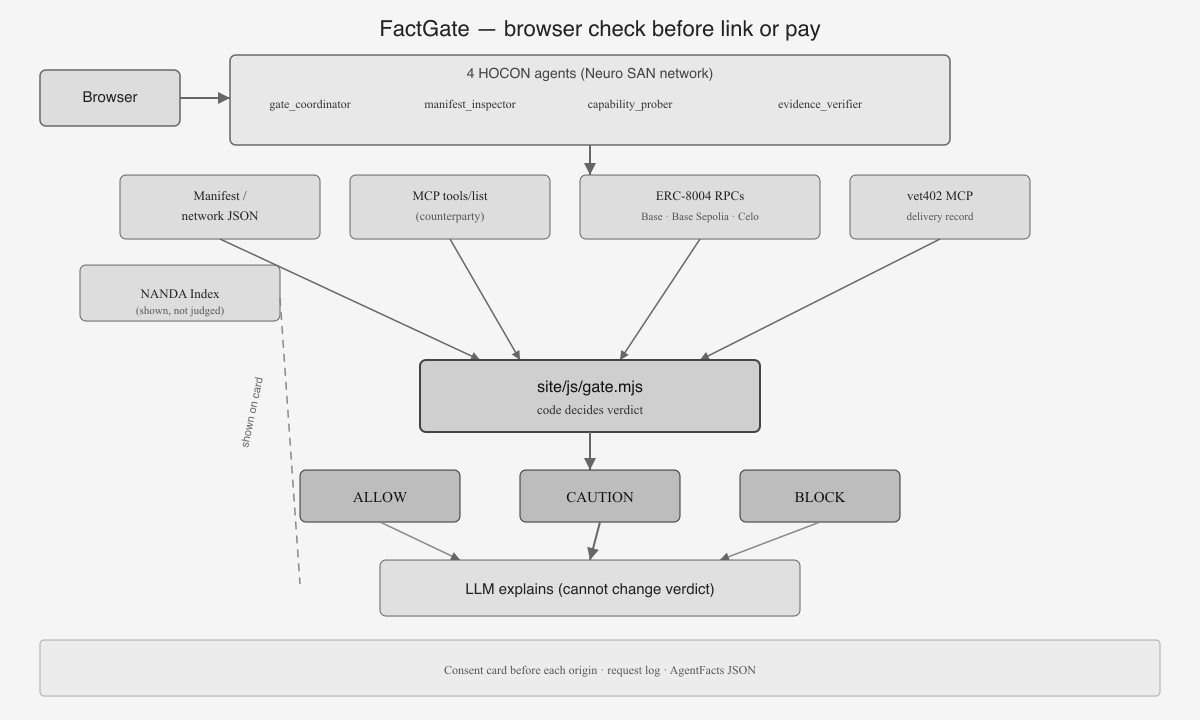
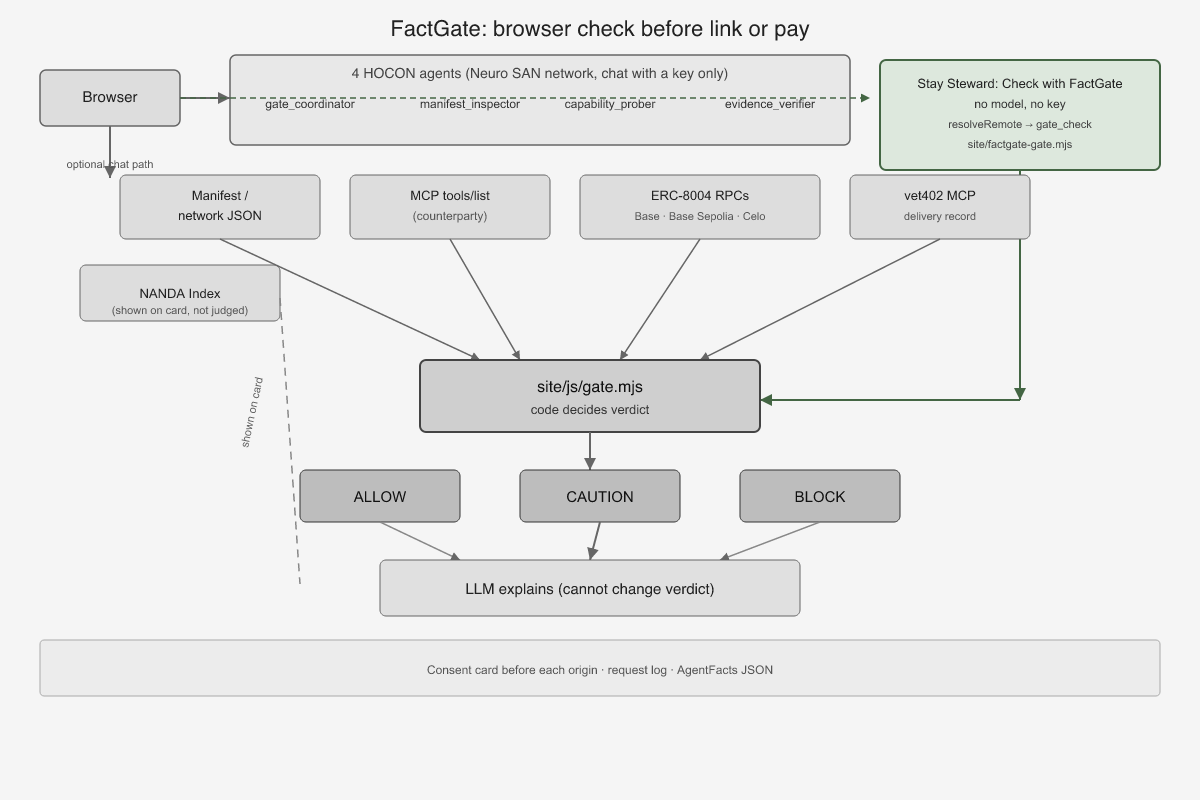
Align submission copy with probe evidence and judge demo limits.
Ecosystem counts, vet402 card dates, README Limits, architecture diagram keyless path, and submission-round6 assertions for Last delivered wording.

diff --git a/README.md b/README.md
@@ -1,4 +1,4 @@
-# FactGate — checks a stranger before your agent pays it
+# FactGate: checks a stranger before your agent pays it
 
 My agent was about to book the nicer hotel. I had built that hotel to fail. FactGate caught it.
 
@@ -22,26 +22,26 @@ Code decides **ALLOW / CAUTION / BLOCK**. The model only explains.
 
 On 2026-11-23, 17 sites from the public list measured CAUTION. None measured ALLOW or BLOCK (`node scripts/ecosystem-snapshot.mjs`).
 
-### Measured on 2026-11-23 (third-party ERC-8004, pillars 1–2 without vet402)
+### Measured on 2026-11-23 (third-party ERC-8004, pillars 1 and 2 without vet402)
 
-On 2026-11-23 FactGate measured **https://agent402.tools/api/weather-forecast** (a public x402 seller, not the author's demo sites): pillar 1 **ALLOW** (`live_as_declared`), pillar 2 **ALLOW** (`identity_match`, ERC-8004 agent 94639 on Base via `eth_call`); overall **CAUTION** only because pillar 3 was not read (`node scripts/measure-pillars-12.mjs https://agent402.tools/api/weather-forecast`).
+On 2026-11-23 FactGate measured **https://agent402.tools/api/weather-forecast** (a public x402 seller, not the author's demo sites): pillar 1 **ALLOW** (`live_as_declared`), pillar 2 **ALLOW** (`identity_match`, ERC-8004 agent 94639 on Base via `eth_call`). Overall **CAUTION** only because pillar 3 was not read (`node scripts/measure-pillars-12.mjs https://agent402.tools/api/weather-forecast`).
 
 ### Measured on 2026-11-22
 
-On 2026-11-22 the deployed page measured agent402.tools as **ALLOW** because it answered as declared, `payTo` matched ERC-8004 agent 94639 on Base, and **vet402**, the author's own service, recorded every paid call delivered (vet402 record; the card shows the last delivery date). **Glossy Stay** is a fictional demo and was **BLOCK**, so Stay Steward refused to load it. The same day a local run (`evidence/live/SUMMARY.json`) measured five contest-listed sites as **CAUTION** (identity unknown): unchecked, not safe.
+On 2026-11-22 the deployed page measured agent402.tools as **ALLOW** because it answered as declared, `payTo` matched ERC-8004 agent 94639 on Base, and **vet402**, the author's own service, recorded every paid call delivered. The card shows the last delivery date. **Glossy Stay** is a fictional demo and was **BLOCK**, so Stay Steward refused to load it. The same day a local run (`evidence/live/SUMMARY.json`) measured five contest-listed sites as **CAUTION** (identity unknown). Unchecked here means the measurement did not finish.
 
-The result that still runs on the live sites through judging is **Verified Stay booked (VS-0001)** and **Glossy Stay not loaded**. The paid seller is **https://agent402.tools/api/weather-forecast**. On 2026-11-22 **vet402**, the author's own service, recorded every paid call delivered (last delivered 2026-11-07, 30-day window). vet402 is scheduled to buy that URL once on 2027-01-10 UTC (see GRADER_FACTS.md). The card shows that date. Delivery counts come only from the author's **vet402** and the author's recomputable validator.
+The result that still runs on the live sites through judging is **Verified Stay booked (VS-0001)** and **Glossy Stay not loaded**. The paid seller is **https://agent402.tools/api/weather-forecast**. On 2026-11-22 **vet402**, the author's own service, recorded every paid call delivered (last delivered 2026-11-07, 30-day window). The card shows Last delivered: 2026-11-07 (vet402 window: 30 days). vet402 is scheduled to buy that URL once on 2027-01-10 UTC (see GRADER_FACTS.md). Between the last delivery date and that purchase, vet402 may answer WARN and the card may read CAUTION until that purchase runs. Delivery counts come only from the author's **vet402** and the author's recomputable validator.
 
 **Screenshots** (deployed sites, captured 2026-11-22):
 
 | What | 1440 px | 390 px |
 | --- | --- | --- |
-| FactGate ALLOW — agent402.tools (first line: Link / pay: OK) | [screenshots/allow-agent402-1440.png](screenshots/allow-agent402-1440.png) | [screenshots/allow-agent402-390.png](screenshots/allow-agent402-390.png) |
-| FactGate BLOCK — Glossy Stay demo (first line: Do not pay) | [screenshots/block-glossy-stay-1440.png](screenshots/block-glossy-stay-1440.png) | [screenshots/block-glossy-stay-390.png](screenshots/block-glossy-stay-390.png) |
-| Consent card — two destinations on separate rows | [screenshots/consent-two-destinations-1440.png](screenshots/consent-two-destinations-1440.png) | [screenshots/consent-two-destinations-390.png](screenshots/consent-two-destinations-390.png) |
-| Stay Steward — Verified Stay booked (VS-0001) after FactGate ALLOW | [factgate-peers/screenshots/steward-booked-vs0001-1440.png](https://github.com/kzmttkc/factgate-peers/blob/main/screenshots/steward-booked-vs0001-1440.png) | [factgate-peers/screenshots/steward-booked-vs0001-390.png](https://github.com/kzmttkc/factgate-peers/blob/main/screenshots/steward-booked-vs0001-390.png) |
-| Stay Steward — stopped on Glossy Stay BLOCK (reasons shown) | [factgate-peers/screenshots/steward-stopped-glossy-block-1440.png](https://github.com/kzmttkc/factgate-peers/blob/main/screenshots/steward-stopped-glossy-block-1440.png) | [factgate-peers/screenshots/steward-stopped-glossy-block-390.png](https://github.com/kzmttkc/factgate-peers/blob/main/screenshots/steward-stopped-glossy-block-390.png) |
-| FactGate CAUTION — Stay Steward demo (first line: Unchecked — do not treat as safe) | [screenshots/caution-stay-steward-1440.png](screenshots/caution-stay-steward-1440.png) | [screenshots/caution-stay-steward-390.png](screenshots/caution-stay-steward-390.png) |
+| FactGate ALLOW: agent402.tools (first line: Link / pay: OK) | [screenshots/allow-agent402-1440.png](screenshots/allow-agent402-1440.png) | [screenshots/allow-agent402-390.png](screenshots/allow-agent402-390.png) |
+| FactGate BLOCK: Glossy Stay demo (first line: Do not pay) | [screenshots/block-glossy-stay-1440.png](screenshots/block-glossy-stay-1440.png) | [screenshots/block-glossy-stay-390.png](screenshots/block-glossy-stay-390.png) |
+| Consent card: two destinations on separate rows | [screenshots/consent-two-destinations-1440.png](screenshots/consent-two-destinations-1440.png) | [screenshots/consent-two-destinations-390.png](screenshots/consent-two-destinations-390.png) |
+| Stay Steward: Verified Stay booked (VS-0001) after FactGate ALLOW | [factgate-peers/screenshots/steward-booked-vs0001-1440.png](https://github.com/kzmttkc/factgate-peers/blob/main/screenshots/steward-booked-vs0001-1440.png) | [factgate-peers/screenshots/steward-booked-vs0001-390.png](https://github.com/kzmttkc/factgate-peers/blob/main/screenshots/steward-booked-vs0001-390.png) |
+| Stay Steward: stopped on Glossy Stay BLOCK (reasons shown) | [factgate-peers/screenshots/steward-stopped-glossy-block-1440.png](https://github.com/kzmttkc/factgate-peers/blob/main/screenshots/steward-stopped-glossy-block-1440.png) | [factgate-peers/screenshots/steward-stopped-glossy-block-390.png](https://github.com/kzmttkc/factgate-peers/blob/main/screenshots/steward-stopped-glossy-block-390.png) |
+| FactGate CAUTION: Stay Steward demo (first line: Unchecked — do not treat as safe) | [screenshots/caution-stay-steward-1440.png](screenshots/caution-stay-steward-1440.png) | [screenshots/caution-stay-steward-390.png](screenshots/caution-stay-steward-390.png) |
 
 **Agents:** `gate_coordinator` turns a visitor request into a check and an explanation · `manifest_inspector` reads the counterparty manifest and NANDA listing · `capability_prober` probes live answers and MCP tools · `evidence_verifier` reads ERC-8004 on chain and vet402's delivery record.
 
@@ -63,7 +63,7 @@ The verdict is code (`site/js/gate.mjs`): the worst pillar wins, a pillar that c
 
 **Only validators in `site/validators.json` are counted, and today that list holds one: the Delivery Court judge, which is the author's own validator** (its scores can be recomputed from public records; others' scores are shown, never counted). Nothing is paid or signed, and **nothing is contacted before the visitor approves a card that lists each destination origin and what it gets** (spec 3.2 Consent, section 5).
 
-**How FactGate breaks self-declaration:** a site's own manifest, AgentFacts and signature only say who wrote the claims, so FactGate compares every claim with what its endpoints actually answer, what the chain says its registered wallet is, and what **vet402**, the author's own service, recorded when someone paid it — not with numbers the site printed about itself.
+**How FactGate breaks self-declaration:** a site's own manifest, AgentFacts and signature only say who wrote the claims, so FactGate compares every claim with what its endpoints actually answer, what the chain says its registered wallet is, and what **vet402**, the author's own service, recorded when someone paid it. It does not trust numbers the site printed about itself.
 
 ## Try it (deployed)
 
@@ -74,7 +74,7 @@ The verdict is code (`site/js/gate.mjs`): the worst pillar wins, a pillar that c
 | Verified Stay (demo, expected ALLOW) | https://verified-stay-demo.vercel.app/ (`/verified_stay`) | same |
 | Glossy Stay (demo, expected BLOCK) | https://glossy-stay-demo.vercel.app/ (network file `https://glossy-stay-demo.vercel.app/glossy_stay.network.json`) | same |
 
-On Stay Steward, pick a stay and press **Check with FactGate**. No AI key is needed: page code runs the gate. Allow the cards and the windows it opens. Verified Stay ends with a booking made in Verified Stay's own window. Glossy Stay stops at FactGate's BLOCK, and the page shows why. The demo stays are fictional, and no money moves.
+On Stay Steward, pick a stay and press **Check with FactGate**. No AI key is needed: page code runs the gate. Before Check with FactGate, allow pop-ups for stay-steward-demo.vercel.app. FactGate and each stay open in separate windows. Allow the cards and the windows it opens. Verified Stay ends with a booking made in Verified Stay's own window. Glossy Stay stops at FactGate's BLOCK, and the page shows why. The demo stays are fictional, and no money moves.
 
 The four sites are static (Vercel), each on its own origin. `deploy/build-public.mjs` writes `dist/<project>/` with the local demo URLs rewritten to the public ones (`deploy/public-origins.json`) and a `vercel.json` with the CORS and worker headers; then `vercel deploy --prod dist/<project>`. The source keeps the local URLs, so the local run below is unchanged.
 
@@ -90,7 +90,7 @@ The four sites are static (Vercel), each on its own origin. `deploy/build-public
 
 ## Try it
 
-Open the page, press one of **Try these** (agent402.tools, Verified Stay, Glossy Stay) or paste a URL, or a NANDA Index id or name (for example `Heron A2A Checker`), approve the cards row by row, and read the verdict card. Its first line is what to do: **Link / pay: OK**, **Do not pay** (a paid counterparty FactGate blocked), **Do not link** (a free one it blocked) or **Unchecked — do not treat as safe** (CAUTION). Below it: what was measured and what was not; three counts (paid calls and calls that came back with content in vet402's record, and trusted validations as "passed n / below 70 m"; "—" when not measured); three pillars side by side, each with one short sentence (the full reason under Details; pillar 3 may show when vet402 last saw content come back, and says that vet402 is the author's own service); the NANDA Index record if the counterparty is listed ("NANDA: listed, card not validated" when NANDA has not validated its card); and the full request log, the approved origins and the AgentFacts under the fold.
+Open the page, press one of **Try these** (agent402.tools, Verified Stay, Glossy Stay) or paste a URL, or a NANDA Index id or name (for example `Heron A2A Checker`), approve the cards row by row, and read the verdict card. Its first line is what to do: **Link / pay: OK**, **Do not pay** (a paid counterparty FactGate blocked), **Do not link** (a free one it blocked) or **Unchecked — do not treat as safe** (CAUTION). Below it: what was measured and what was not. Three counts show paid calls and calls that came back with content in vet402's record, and trusted validations as "passed n / below 70 m" ("—" when not measured). Three pillars sit side by side, each with one short sentence (the full reason under Details). Pillar 3 may show when vet402 last saw content come back, and says that vet402 is the author's own service. The NANDA Index record appears if the counterparty is listed ("NANDA: listed, card not validated" when NANDA has not validated its card). Under the fold: the full request log, the approved origins and the AgentFacts.
 
 Verdicts measured on 2026-11-22 06:57 UTC (`node scripts/probe-live.mjs --peers`, `evidence/live/SUMMARY.json`). The first word on the card is in brackets:
 
@@ -130,7 +130,7 @@ node scripts/probe-live.mjs --public   # as the deployed page: agent402 and the 
 node scripts/ecosystem-snapshot.mjs
 ```
 
-**Ecosystem snapshot 2026-11-23:** 17 sites probed from the public list — 16 answered as declared, 16 manifests CORS-readable, 0 declare ERC-8004 in a readable registration file, 15 instruction scans clean; verdicts ALLOW 0 / CAUTION 17 / BLOCK 0 (`node scripts/ecosystem-snapshot.mjs`).
+**Ecosystem snapshot 2026-11-23:** 17 sites probed from the public list. 16 answered as declared, 16 manifests CORS-readable, 0 declare ERC-8004 in a readable registration file, 15 instruction scans clean. Verdicts ALLOW 0 / CAUTION 17 / BLOCK 0 (`node scripts/ecosystem-snapshot.mjs`).
 
 ### Run the three-site demo
 
@@ -169,7 +169,7 @@ The tests use a scripted model. To check the same flows with a real LLM, use you
 
 ## How a partner site uses FactGate
 
-FactGate shares two actions through its bridge (`site/bridge/bridge-actions.js`) with every site: `get_gate_state` (pure, in a hidden frame) and `gate_check(url)`. `gate_check` contacts other origins, so it runs in FactGate's own window, where the visitor approves each origin first. The reference runtime opens a partner's window only for actions marked `write`, so `gate_check` is marked `write` with `confirmsInWindow`; it changes nothing. There is no shared `evaluate_gate`: a verdict comes only from a check FactGate measured. `install()` wraps `engine.requestConsent`, `actions.execute` and the trace listener (`site/factgate-gate.mjs`) so a blocked partner is not fetched.
+FactGate shares two actions through its bridge (`site/bridge/bridge-actions.js`) with every site: `get_gate_state` (pure, in a hidden frame) and `gate_check(url)`. `gate_check` contacts other origins, so it runs in FactGate's own window, where the visitor approves each origin first. The reference runtime opens a partner's window only for actions marked `write`, so `gate_check` is marked `write` with `confirmsInWindow`. It changes nothing. There is no shared `evaluate_gate`: a verdict comes only from a check FactGate measured. `install()` wraps `engine.requestConsent`, `actions.execute` and the trace listener (`site/factgate-gate.mjs`) so a blocked partner is not fetched.
 
 ### Put the gate in your own site (three lines)
 
@@ -219,7 +219,7 @@ Stay Steward ([factgate-peers](https://github.com/kzmttkc/factgate-peers)) uses 
 ### Run the tests from a fresh clone
 
 ```shell
-mkdir -p ~/demo && cd ~/demo
+mkdir -p demo && cd demo
 git clone https://github.com/kzmttkc/factgate
 git clone https://github.com/kzmttkc/factgate-peers
 git clone https://github.com/cognizant-ai-labs/agentic-web
@@ -249,3 +249,6 @@ CI smoke in evidence packs: `node --test test/*.test.mjs` only (166 tests as of 
 - The real-model path is not covered by the tests (it needs a key); the steps above check it by hand.
 - The reference runtime applies one private-context allow rule per calling network, so Verified Stay also receives `target_url` (its own URL). Destination-scoped rules are a spec section 5 extension.
 - vet402 records public https sellers only; local demo sites get pillar 3 from validation scores.
+- The agent402.tools ALLOW path calls `https://vet402.com/mcp` (`site/js/gatecheck.mjs`). Allow vet402.com on the consent card when measuring pillar 3.
+- Verified Stay checks need a consent-card row for `https://sepolia.base.org` (Base Sepolia RPC). Public RPCs may rate-limit. If the gate stops with `no_delivery_record`, wait and retry once.
+- agent402.tools is a third-party seller. Pillar 3 for that URL depends on vet402.com/mcp and the validators in `validators.json` (`evidence/public/SUMMARY.json`, measured 2026-11-22).

diff --git a/GRADER_FACTS.md b/GRADER_FACTS.md
@@ -1,4 +1,4 @@
-# FactGate — facts for graders (2026-11-22, deployed)
+# FactGate: facts for graders (2026-11-22, deployed)
 
 Contest: Open Agentic Web Challenge (Cognizant, Devpost). Theme: "Agentify a website, create a tool that helps agents find or trust each other, or a reusable component the whole community can leverage." Stage 2 = 4 equal criteria: Technological Implementation, Design ("complete, coherent product experience not just a technical proof of concept"), Potential Impact ("credible, specific case for solving a real problem for a real audience"), Quality of the Idea.
 
@@ -11,7 +11,7 @@ Submission Requirements (contest rules, as read 2026-11-21/22; re-read before su
 | A public open agentic website: spec-conforming `.json` files, the browser `runtime`, a working interface | Deployed: https://factgate.vercel.app/ (source: https://github.com/kzmttkc/factgate) |
 | Text description of the features | README.md (English); short Devpost paste in docs/devpost.md |
 | Video under 2 minutes, on YouTube, "must include the Entrant explaining the Project (not AI generated)" | Not recorded yet (author's own voice) |
-| Screenshots | Taken 2026-11-22–23 on deployed Vercel sites at 1440 px and 390 px: `~/factgate/screenshots/` (FactGate ALLOW, BLOCK, consent, Stay Steward CAUTION) and `~/factgate-peers/screenshots/` (Stay Steward booked VS-0001, stopped on Glossy BLOCK); linked at the top of README.md |
+| Screenshots | Taken 2026-11-22–23 on deployed Vercel sites at 1440 px and 390 px: `factgate/screenshots/` (this repo) and `factgate-peers/screenshots/` (sibling repo, Stay Steward booked VS-0001, stopped on Glossy BLOCK); linked at the top of README.md |
 | Free access to the working demo through judging | Deployed on Vercel, no sign-in: FactGate https://factgate.vercel.app/, Stay Steward https://stay-steward-demo.vercel.app/, Verified Stay https://verified-stay-demo.vercel.app/, Glossy Stay https://glossy-stay-demo.vercel.app/ |
 | A project that existed before the period "must have been significantly updated after the start of the Hackathon Submission Period" (2026-11-11) | FactGate was started 2026-11-22 |
 
@@ -31,7 +31,9 @@ MVP spec section 6 (each with the test or screen that shows it; details in READM
 
 An open agentic website that checks a counterparty (an agentic website, a NANDA-indexed agent, or an x402 seller) before an agent links to it or pays it. For a site with no ERC-8004 registration it still shows, before connecting, whether the site answers as declared, whether its agent instructions are safe and whether it can be reached. Runs entirely in the browser (no server code). Every contact goes through a consent card that lists each destination origin and what it gets, allowed or declined row by row; a redirect to another origin is a new destination that needs its own card. Returns a deterministic ALLOW / CAUTION / BLOCK (code decides, the LLM only explains; evaluate_gate and save_check take only the ID of a check page code measured, never pillar values a model wrote). The card's first line is an action (Link / pay: OK, Do not pay, Do not link, Unchecked — do not treat as safe); CAUTION means unchecked and names what was not measured (identity_unknown, unreachable, steering, no_delivery_record, ...) and an AgentFacts JSON (field names from arXiv:2507.14263 appendix; extensions prefixed x_factgate_).
 
-The author scheduled vet402 (the author's own service) to buy `https://agent402.tools/api/weather-forecast` once in the production window 2027-01-10T00:00:00.000Z through 2027-01-10T23:59:59.999Z UTC (`maxPurchases` 1; vet402 cron runs at 12:00 UTC, so the purchase is due 2027-01-10 12:00 UTC). Pillar 3 on the card shows when vet402 last saw content come back (e.g. Last delivered: 2026-11-07 as in evidence dated 2026-11-22). If that purchase does not run, pillar 3 follows vet402's recommendation until a fresh delivery record exists.
+The author scheduled vet402 (the author's own service) to buy `https://agent402.tools/api/weather-forecast` once in the production window 2027-01-10T00:00:00.000Z through 2027-01-10T23:59:59.999Z UTC (`maxPurchases` 1; vet402 cron runs at 12:00 UTC, so the purchase is due 2027-01-10 12:00 UTC). Pillar 3 on the card shows when vet402 last saw content come back (e.g. Last delivered: 2026-11-07 as in evidence dated 2026-11-22). If that purchase does not run, pillar 3 follows vet402's recommendation until a fresh delivery record exists. Pillar 3 calls `https://vet402.com/mcp` (`site/js/gatecheck.mjs`); `evidence/live/SUMMARY.json` (2026-11-22) records POST initialize and tools/list as HTTP 200 after consent.
+
+Between last delivery (2026-11-07) and the 2027-01-10 purchase, vet402 may return recommendation WARN and the card may read CAUTION (`site/js/gate.mjs` maps WARN to CAUTION on pillar 3).
 
 Three pillars:
 1. Live probe: manifest (spec 3.3), network, declared MCP `initialize`→`tools/list`, x402 terms (never paid), paid resource, and a static scan of the instructions a caller would load (steering = CAUTION, asking for keys = BLOCK). Unreachable over CORS is recorded as such (no proxy).
@@ -54,4 +56,4 @@ Community: PR #72 to the official agent list (Open, as of 2026-11-23).
 
 Competitors already listed: Agent Atlas (manifest format check), NandaSeal (browser self-signed facts), Agent Customs (static prompt-injection scan), Agent Crash Test (own-site confirm dialogs), Three Numbers (XRPL escrow counts).
 
-Not yet done: the real-LLM chat run (needs the author's key), video, submission text.
+Not yet done: the real-LLM chat run (needs the author's key), video (YouTube URL on submission day only).

diff --git a/docs/devpost.md b/docs/devpost.md
@@ -1,4 +1,4 @@
-# FactGate — Devpost paste (short)
+# FactGate: Devpost paste (short)
 
 My agent was about to book the nicer hotel. I had built that hotel to fail. FactGate caught it.
 
@@ -8,7 +8,7 @@ Cognizant's 2026-11-19 blog describes a deterministic Arbiter negotiating a hote
 
 Try it: https://factgate.vercel.app/ (no key needed).
 
-The paid seller in this check is https://agent402.tools/api/weather-forecast. On 2026-11-22 vet402 recorded every paid call delivered. Last delivered 2026-11-07, window 30 days. vet402 (my own service) buys that URL once on 2027-01-10 UTC. The card shows that date.
+The paid seller in this check is https://agent402.tools/api/weather-forecast. On 2026-11-22 vet402 recorded every paid call delivered. Last delivered 2026-11-07, window 30 days. The card shows Last delivered: 2026-11-07 (vet402 window: 30 days). vet402 (my own service) is scheduled to buy that URL once on 2027-01-10 UTC. Between the last delivery date and that purchase, vet402 may answer WARN and the card may read CAUTION until that purchase runs. The agent402.tools ALLOW card needs vet402.com/mcp live after you allow it on the consent card.
 
 Delivery counts on the card come from vet402 (my own service) and from validators listed in validators.json.
 
@@ -20,4 +20,4 @@ Open Stay Steward (allow pop-ups for stay-steward-demo.vercel.app when asked), p
 
 A judge can repeat Glossy Stay's BLOCK through 2027-01-18. Glossy Stay is a fictional demo. On 2026-11-22, five contest sites measured CAUTION for identity unknown.
 
-Cognizant's 2026-11-19 post leaves trust between parties with no prior relationship open. FactGate is that check, and site/factgate-gate.mjs sits on the Stay Steward booking page. On 2026-11-23, 17 public-list sites measured CAUTION and the gate stopped them. When checked on 2026-11-22, 102 of 138 NANDA Index entries had no card validation.
+Cognizant's 2026-11-19 post leaves trust between parties with no prior relationship open. FactGate is that check. site/factgate-gate.mjs is on the Stay Steward booking page. Stay Steward passes a CAUTION that is only identity_unknown. The file default passes no CAUTION. On 2026-11-23, node scripts/ecosystem-snapshot.mjs measured 17 public-list sites as CAUTION (ALLOW 0, BLOCK 0). That command counts verdicts. When checked on 2026-11-22, 102 of 138 NANDA Index entries had no card validation.
